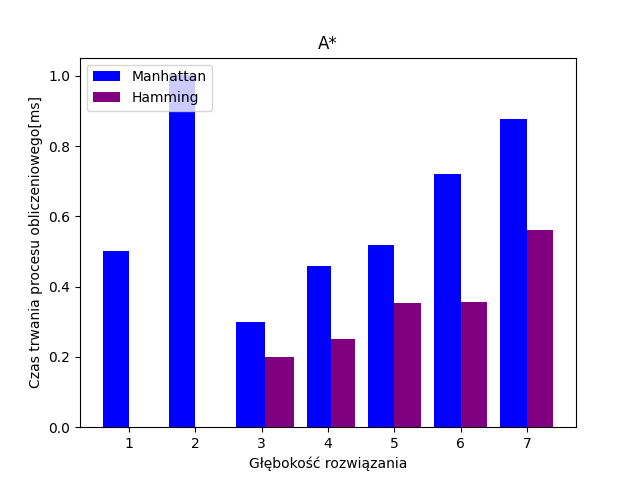
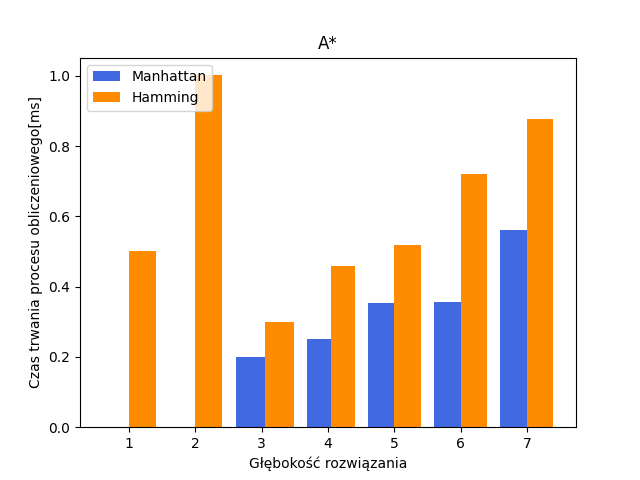
update graphs

Changed region(s): [[0.1562, 0.1562, 0.875, 0.9062], [0.125, 0.125, 0.1875, 0.2188]]

diff --git a/fifteen-puzzle-project/graphs.py b/fifteen-puzzle-project/graphs.py
@@ -45,12 +45,15 @@ def summary_graph(data, nr_criterion, name_criterion, name_file, use_log_scale):
 
     # tworzenie wykresu
     x = [1, 2, 3, 4, 5, 6, 7]
-    plt.hist([x, x, x], weights=[avg_astar_table, avg_bfs_table, avg_dfs_table], label=['A*', 'BFS', 'DFS'],
-             color=['blue', 'purple', 'green'], bins=[0.5, 1.5, 2.5, 3.6, 4.5, 5.5, 6.5, 7.5])
-    plt.title('Ogólne')
+   # y = [1.0, 2.0, 3.0, 4.0, 5.0, 6.0, 7.0, 8.0, 9.0, 10.0, 11.0, 12.0, 13.0, 14.0, 15.0, 16.0, 17.0, 18.0, 19.0, 20.0]
+    plt.hist([x, x, x], weights=[avg_dfs_table,avg_bfs_table, avg_astar_table], label=['BFS', 'DFS', 'A*'],
+             color=['#FF8C00','#4169E1', '#228B22'], bins=[0.5, 1.5, 2.5, 3.6, 4.5, 5.5, 6.5, 7.5])
+    # dodanie podziałki dla osi Y
+    plt.yticks(range(0, 21, 1))
+    plt.title('Ogółem')
     plt.xlabel('Głębokość rozwiazania')
     plt.ylabel(name_criterion)
-    plt.legend(('A*', 'BFS', 'DFS'), loc='upper left')
+    plt.legend(('DFS','BFS','A*'), loc='upper left')
 
     # opcjonalne skalowanie logarytmiczne osi y
     if use_log_scale is True:
@@ -96,9 +99,9 @@ def astar_graph(data, nr_criterion, name_criterion, name_file, use_log_scale):
     x = [1, 2, 3, 4, 5, 6, 7]
     plt.hist(
         [x, x],
-        weights=[avg_manh_table, avg_hamm_table],
-        label=['Manhattan', 'Hamming'],
-        color=['blue', 'purple'],
+        weights=[avg_hamm_table,avg_manh_table],
+        label=['Hamming','Manhattan'],
+        color=['#4169E1', '#FF8C00'],
         bins=[0.5, 1.5, 2.5, 3.6, 4.5, 5.5, 6.5, 7.5]
     )
 
@@ -258,7 +261,6 @@ def bfs_graph(data, nr_criterion, name_criterion, name_file, use_log_scale):
     for d in data:
         index = int(d[0])
         value = float(d[nr_criterion + 3])
-
         if d[2] == 'bfs':
             if d[3] == 'rdul':
                 sum_RDUL[index] += value
@@ -340,9 +342,6 @@ with open("wszystkie_dane.csv", 'r', encoding=enc['encoding']) as csvfile:
         dataFrame.append(array)
 
         i += 1
-        #list.append(array)
-
-    #print(dataFrame)
 
 # Wyświetl tablicę_dwuwymiarową
 for i in range(0,int(dataFrame.__sizeof__()/9)):

diff --git a/fifteen-puzzle-project/puzzleBoard.py b/fifteen-puzzle-project/puzzleBoard.py
@@ -22,7 +22,7 @@ class puzzleBoard:
 
     def __copy__(self):
         new_board = copy.deepcopy(self.board)                                       # tworzymy głęboką kopię planszy
-        new_instance = puzzleBoard(self.width, self.height, new_board, self.metric)  # tworzymy nowy węzeł
+        new_instance = puzzleBoard(self.width, self.height, new_board, self.metric) # tworzymy nowy węzeł
         new_instance.last_move = self.last_move                                     # kopiujemy ostatni ruch
         new_instance.parent = self                                                  # ustawiamy rodzica na obecny węzeł
         new_instance.priority = self.metric                                         # ustawiamy priorytet heurystyki
